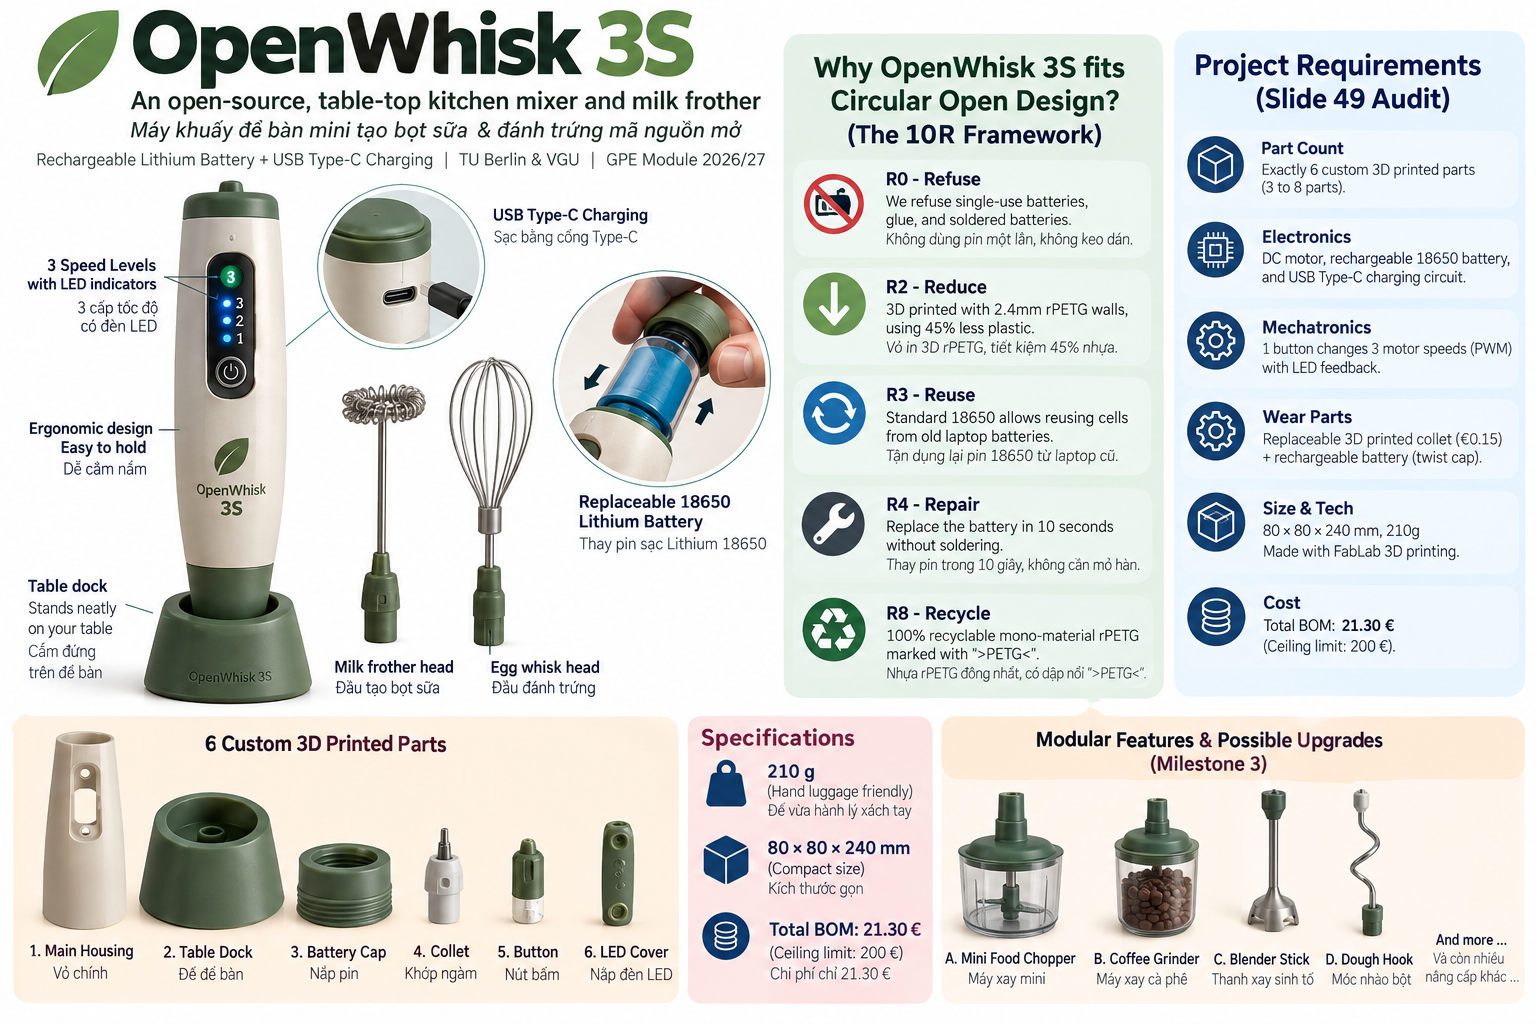
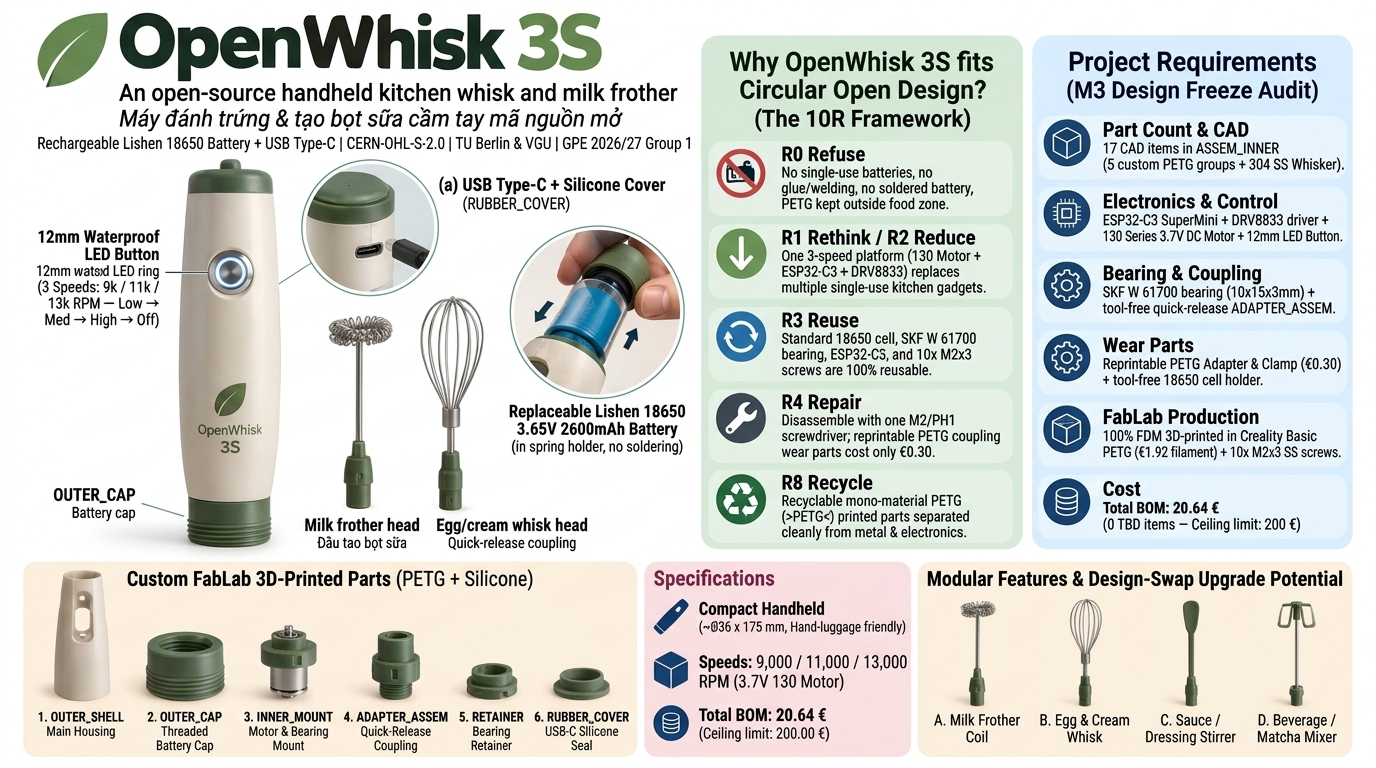
Update images/concept-poster.png to match M3 design freeze (12mm LED button, no dock, EUR 20.64 BOM, ESP32-C3, SKF W 61700, 17 CAD items)

diff --git a/images/README.md b/images/README.md
@@ -1,5 +1,5 @@
 # Images
+
 | File | Caption |
 |---|---|
-| concept-poster.png | M1/M2 concept visual (AI-assisted rendering, not a prototype photo). |
-<!-- add: YYYYMMDD_description.jpg | what the photo shows, which assembly step -->
+| concept-poster.png | Updated M3 concept & architecture infographic (synchronized with ASSEM_INNER 1046.pdf 17-item assembly and BOM 081126 €20.64 cost). |
